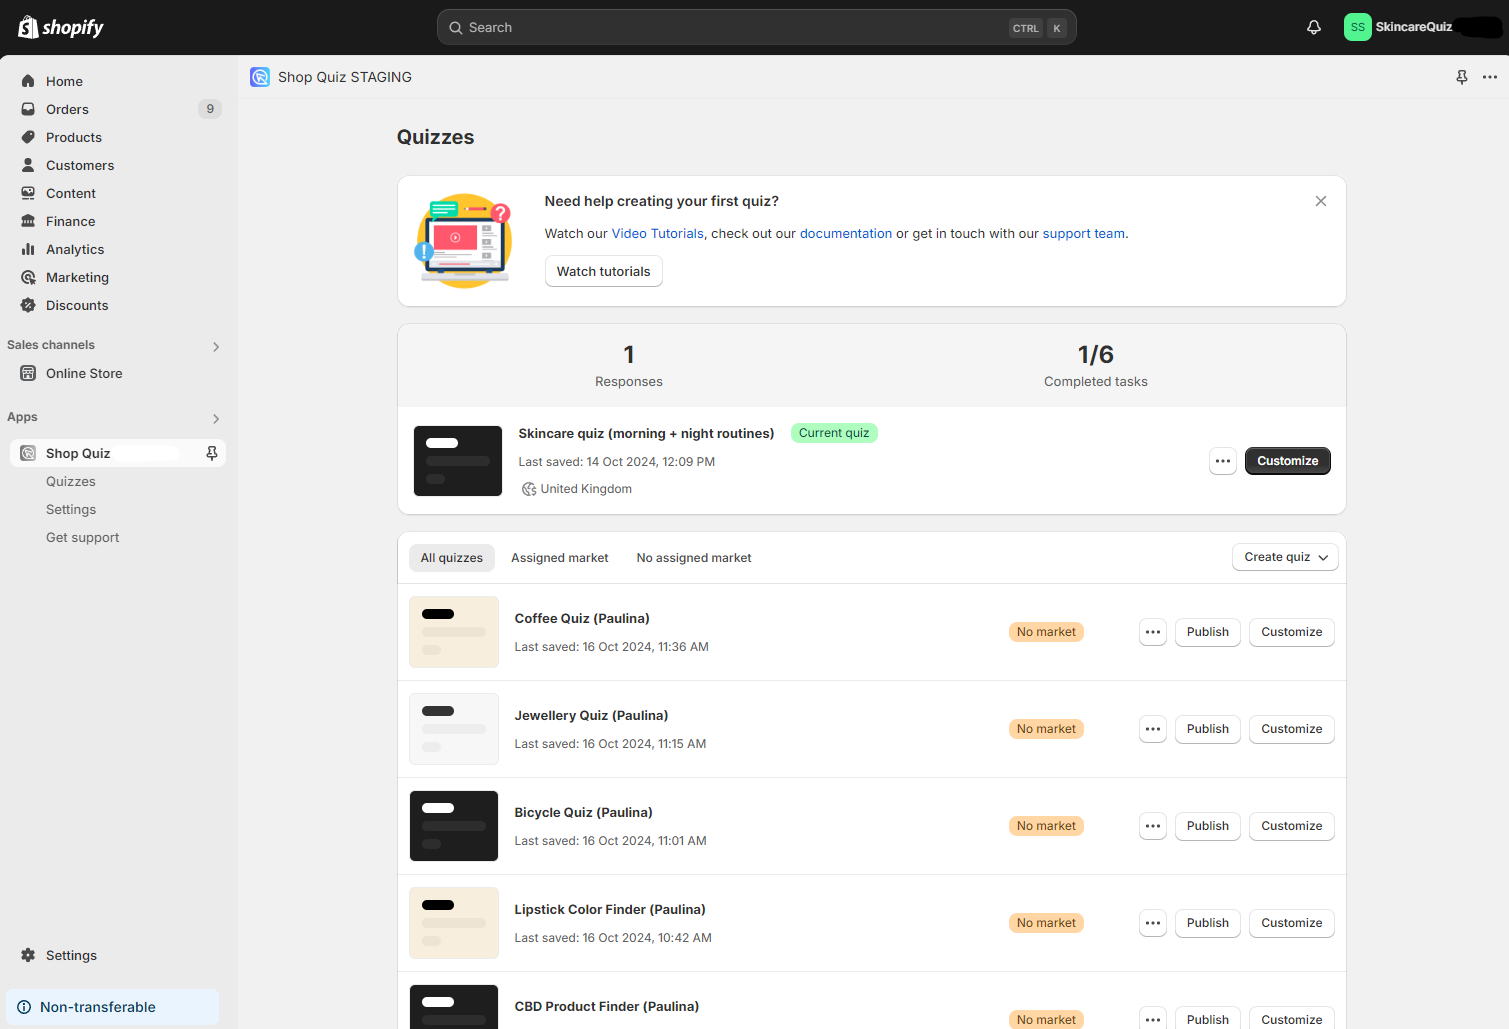
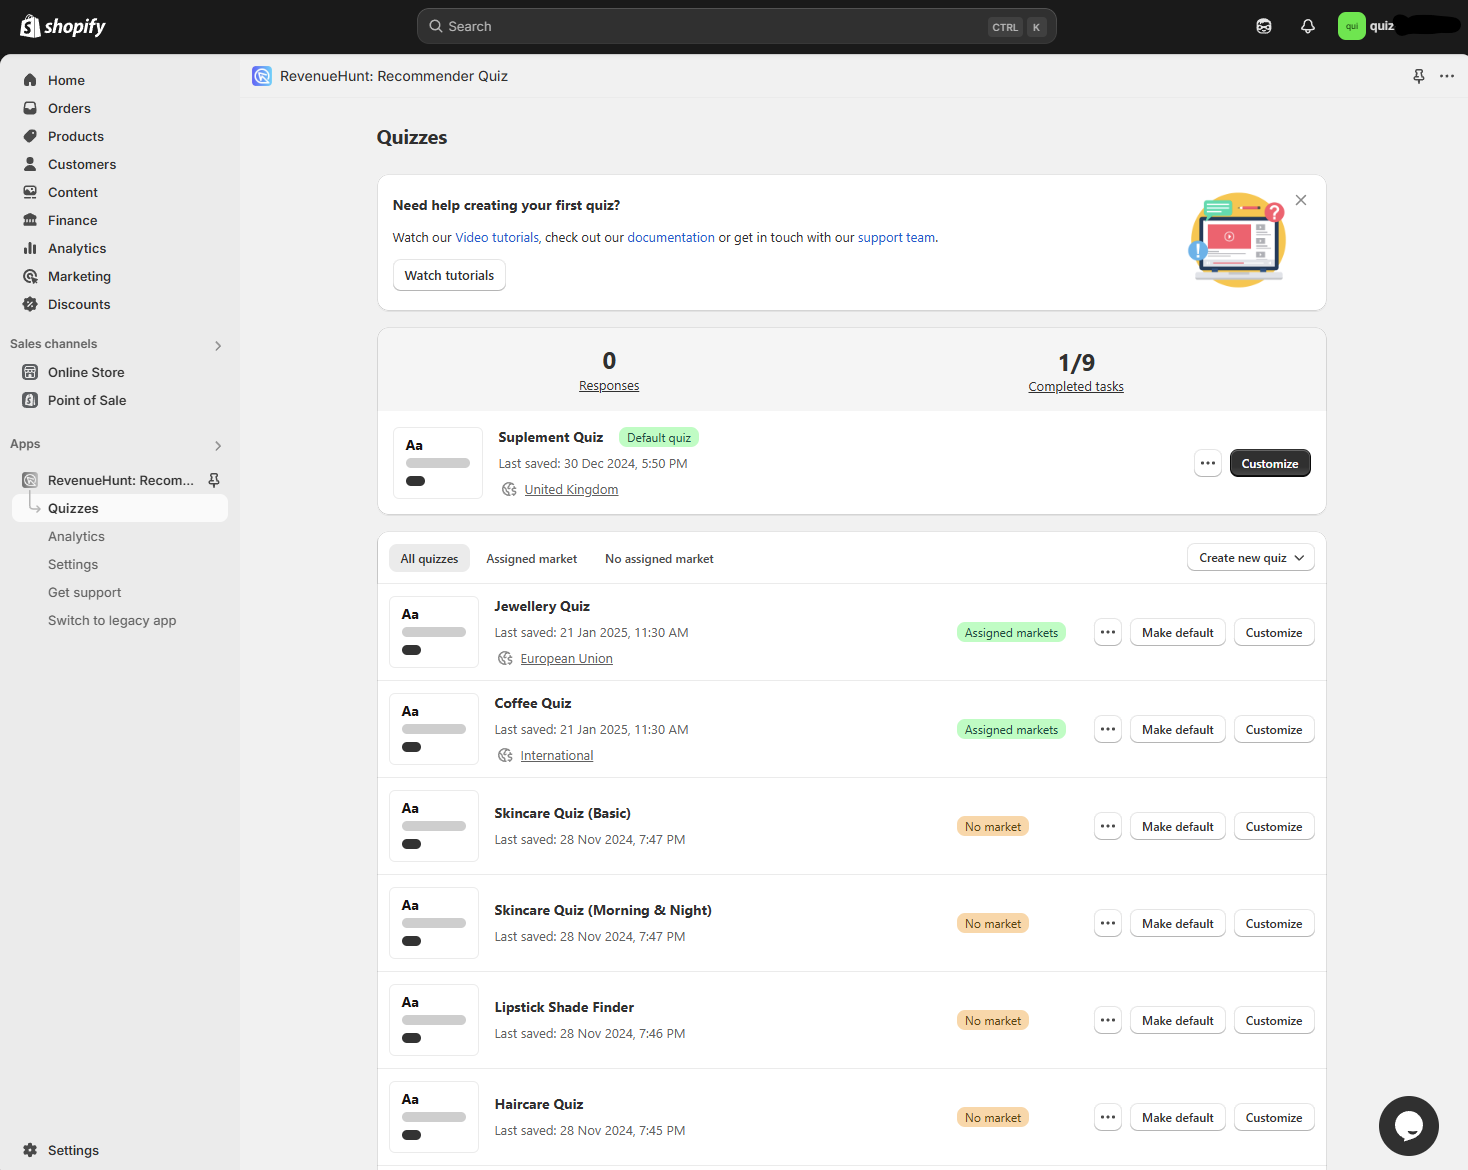
updating app manual dashboard for Shopify v2

diff --git a/docs/reference/dashboard.md b/docs/reference/dashboard.md
@@ -22,21 +22,21 @@ On the dashboard, you'll find all the quizzes that you create.
 
 === "Shopify V2"
 
-    ![dashboard_catalogue](/images/manual_shopifyV2_dashboard_catalogue.png)
-
-    From the Catalogue tab, you can create and update your products, manually or programmatically.
-
+    ![dashboard_catalogue](/images/manual_shopifyV2_dashboard.png)
+    
     Shopify Side Menu
 
     ![dashboard side menu](/images/manual_shopifyV2_sidemenu.png)
 
     **Quizzes** - The dashboard of the app where you can find all the quizzes created.
 
-    **Plans & Pricing** - Opens the [Plans & Pricing tab](https://docs.revenuehunt.com/reference/plans-pricing/) (in-app URL (https://admin.revenuehunt.com/plans))
+    **Analytics** - Opens the [Analytics tab](https://docs.revenuehunt.com/reference/quiz-builder/#analytics) where you can check the quiz performance.
 
     **Settings** - Opens the [App Settings](https://docs.revenuehunt.com/reference/app-settings/) menu.
 
-    **Get support** - Opens the [Support]() menu.
+    **Get support** - Opens the [Support](#support) menu.
+
+    **Switch to legacy app** - Click to (switch to the legacy version of the app)[#switch-to-v1]. All your progress will be saved when you switch versions.
 
 === "WooCommerce"
 
@@ -662,6 +662,43 @@ On the dashboard, you'll find all the quizzes that you create.
 
     **use this template** - Adds the template to your dashboard. 
 
+## Support
+
+=== "Shopify"
+
+
+
+=== "Shopify V2"
+
+    ![manual_shopifyV2_dashboard_support](/images/manual_shopifyV2_dashboard_support.png)
+
+    The **Get Support** section helps users quickly find answers, resolve issues, and get in touch with the support team. It provides essential resources to guide users through using the app effectively.
+
+    **Frequently Asked Questions** - Browse common issues and solutions.
+
+    **Video Tutorials** - Watch walkthroughs and how-tos on using features.
+
+    **App Status & Uptime** - Check if the app is currently operational or if there are any known outages.
+
+    **Plans and Pricing** - Review available plans and their features or compare pricing tiers.
+
+    **Contact Support** - Submit a support request or start a conversation with the team.
+
+
+=== "WooCommerce"
+
+
+
+=== "Magento"
+
+
+
+=== "BigCommerce"
+
+
+
+=== "Standalone" 
+
 
 ## Switch to V1
 
@@ -671,18 +708,18 @@ On the dashboard, you'll find all the quizzes that you create.
 
 === "Shopify V2"
 
-    ![manual_shopifyV2_appsettings_switchtov1](/images/manual_shopifyV2_appsettings_switchtov1.png)
+    ![manual_shopifyV2_sidemenu](/images/manual_shopifyV2_sidemenu.png)
 
     
-    During this beta testing phase, you can switch back to the original legacy version (V1) of the RevenueHunt app at any time. We will continue to maintain that version for the coming months to ensure you have a reliable option while exploring the new features in Version 2.
+    You can switch back to the original legacy version (V1) of the RevenueHunt app at any time. We will continue to maintain that version for the coming months to ensure you have a reliable option while exploring the new features in Version 2.
 
     From Version 1, you will also have the ability to switch to Version 2 whenever you feel ready to try out the latest enhancements. This flexibility allows you to evaluate the new interface and features without losing access to the familiar functionalities of Version 1.
 
-    **Switch to V1** - Click this option to switch to a legacy verison of our Shopify app (V1).
+    **Switch to legacy app** - Click this option to switch to a legacy verison of our Shopify app (V1).
 
     !!! warning
 
-        If you have any questions or need assistance during this transition, feel free to [reach out to our support team]().
+        If you have any questions or need assistance during this transition, feel free to [reach out to our support team](https://docs.revenuehunt.com/how-to-guides/contact-customer-support/).
 
 
 === "WooCommerce"
